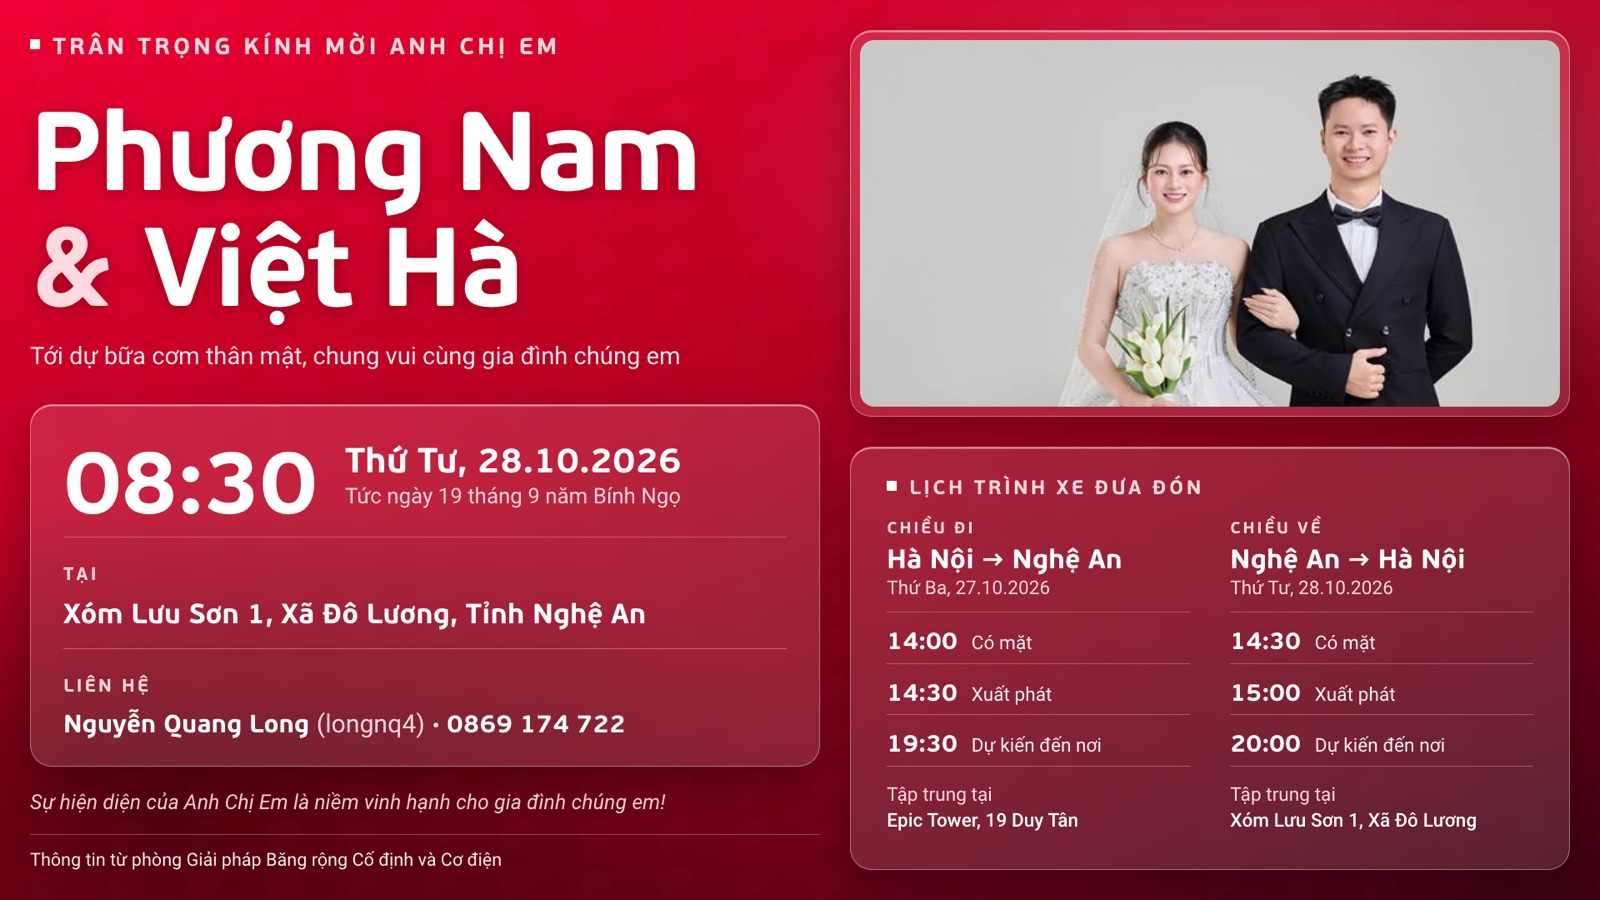
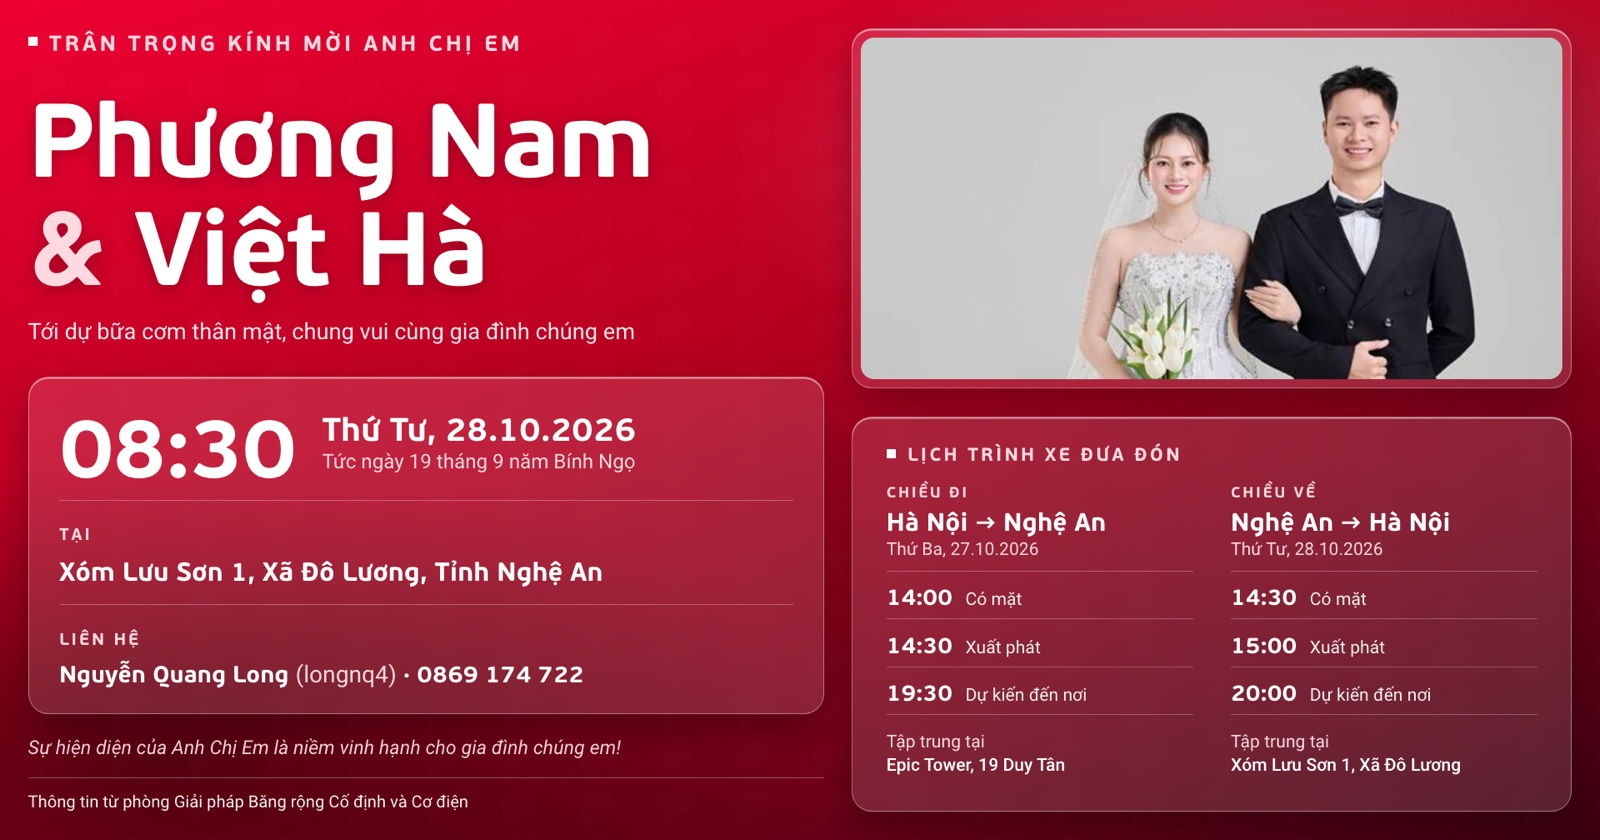
Bản tin TV: ảnh Sự kiện hot dựng lại đúng khung Tin tiêu điểm (1232×647, hết hở hai bên); ghi kích thước khung vào AGENTS.md

diff --git a/tv/content.js b/tv/content.js
@@ -23,7 +23,7 @@ window.TV = {
   //   image: 'img/...'  một poster tĩnh
   STORIES: [
     { id: 'dam-cuoi-nam-ha', tab: 'Sự kiện hot', title: 'Đám cưới Phương Nam & Việt Hà', until: '2026-10-28',
-      image: 'img/daily-2026-10-26.jpg',
+      image: 'img/daily-2026-10-26.jpg?v=2',
       ticker: 'Đám cưới Phương Nam & Việt Hà · 08:30 Thứ Tư 28/10 tại Xóm Lưu Sơn 1, Xã Đô Lương, Nghệ An · Xe xuất phát 14:30 Thứ Ba 27/10 tại Epic Tower, 19 Duy Tân' },
 
     { id: 'phu-nu-20-10', tab: 'Ngày Phụ nữ Việt Nam', title: 'CHÚC MỪNG NGÀY PHỤ NỮ VIỆT NAM 20/10',

diff --git a/AGENTS.md b/AGENTS.md
@@ -18,6 +18,7 @@ GitHub Pages, nhánh `main`. `git push` = deploy, 1 đến 2 phút. TV tự tả
 
 ## Công thức hay dùng
 - **Thêm tin Daily News:** ảnh vào `img/daily-YYYY-MM-DD[-n].jpg` (cạnh dài ≤ 1600, JPG: `sips -Z 1600 -s format jpeg in --out out.jpg`), video vào `media/daily-YYYY-MM-DD[-n].mp4` (H.264 MP4; **bắt buộc tiền tố `daily-`**, tên khác có thể bị GitHub Action dọn mất), rồi thêm một mục vào `STORIES` trong `tv/content.js`. Đặt `until` nếu tin chỉ chiếu vài ngày.
+- **Ảnh thiết kế riêng cho khung Tin tiêu điểm (poster, thư mời…):** khung ảnh (`.media`) trên TV 1920×1080 là **1232×647** khi tin không có `tag`/`sub` (có thì còn 1232×609–615), tức tỷ lệ ~1.9:1, **không phải 16:9**; ảnh hiện bằng `object-fit: contain` nên ảnh 16:9 bị hở hai bên. Dựng ảnh ở **1920×1008** (skill vt-design-7styles: `render_artwork.py ... --product social --size tv-story`), giữ lề trong ≥ 32 px (khung bo góc 20 px), không đặt `tag`/`sub` cho tin đó, rồi `sips -Z 1600` → 1600×840. Ảnh kín cả màn hình (BACKDROP) thì vẫn 1920×1080.
 - **Thêm kết quả một môn:** poster vào `img/ket-qua-<mon>.jpg`, thêm `{ src, sub: 'Môn · Vô địch: …' }` vào `slides` của tin `id: 'ket-qua'`, thêm câu vào `ticker` của tin đó. Không tạo tab riêng cho từng môn.
 - **Tin các phòng gửi qua `news/`:** không sửa `content.js`; admin duyệt ở `news/duyet.html`, TV tự nhận trong khoảng 2 phút. Tin thường vào khung Tin các phòng (`DEPT_NEWS`), tin được "Đưa lên khung lớn" (`pin`) vào đầu `STORIES`. Thêm hoặc đổi tên phòng ban: sửa `DEPARTMENTS` trong `news/config.js` (`short` = tên hiện trên TV).
 - **Gộp tin phòng ban (news/) vào một tin trong STORIES:** tải ảnh của tin đó (`curl -sL '<API_URL>?action=published'`, lấy `images[].url` của đúng `id`) về `img/daily-…jpg`, thêm vào `slides` của tin gộp, rồi thêm `id` tin phòng ban vào `HIDE_NEWS` trong `tv/content.js` để TV không chiếu bản ghim riêng nữa.
